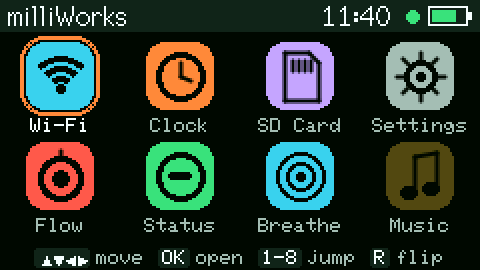
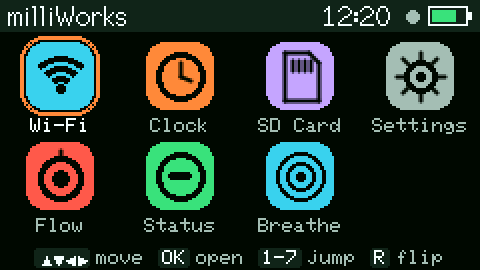
Breathe: Count On/Off for the voice instead of a separate guidance; hide Music for now

diff --git a/src/app_breathe.cpp b/src/app_breathe.cpp
@@ -65,11 +65,11 @@ static void musicCue(const Pattern& p, int idx, bool bells) {
 }
 
 // ---- Guidance: how you know the phase with your eyes closed ----------------------------
-// Saved by number (br_gd), so new choices go at the end; ORDER is how they appear.
-enum Guidance { G_VOICE, G_TONES, G_SILENT, G_VCOUNT, G_COUNT };
-static const char* GUIDANCE_NAME[G_COUNT] = {"Voice", "Tones", "Silent", "Count"};
-static const Guidance ORDER[G_COUNT] = {G_VCOUNT, G_VOICE, G_TONES, G_SILENT};
-static bool usesVoice(int g) { return g == G_VOICE || g == G_VCOUNT; }
+// Saved by number (br_gd). Whether the voice also counts is its own setting (br_cnt).
+// v19-beta.1/.2 saved 3 for "Count": that is now Voice with counting on.
+enum Guidance { G_VOICE, G_TONES, G_SILENT, G_COUNT };
+static const char* GUIDANCE_NAME[G_COUNT] = {"Voice", "Tones", "Silent"};
+static bool usesVoice(int g) { return g == G_VOICE; }
 static uint32_t duckUntil = 0;
 
 // A calm voice says "Breathe in" / "Hold" / "Breathe out" on its own speaker channel (2),
@@ -96,14 +96,14 @@ static void cue(Guidance g, const Pattern& p, int idx, bool music) {
     else if (g == G_TONES) playBreathCue(idx == 0 ? 0 : idx == 2 ? 2 : 1);
 }
 
-static void session(const Pattern& p, int minutes, bool music, Guidance guide) {
+static void session(const Pattern& p, int minutes, bool music, Guidance guide, bool count) {
     uint32_t start = millis(), total = minutes * 60000UL;
     int lastPhase = -1;
     // Count: "In" is the first second, then "two", "three"... one per second
     // to the end of the phase, so the count always matches the pattern (4-7-8 counts to 8).
     uint32_t phaseStart = 0;
     int nextNum = 0;
-    bool counting = guide == G_VCOUNT;
+    bool counting = usesVoice(guide) && count;
     if (music) { focusSoundStart(FS_BREATH); focusBreathSet(196.0f, 0.06f, 0.5f); }
     // The word the voice says, and the same number the voice counts (1 = the word itself).
     static const char* WORD[] = {"In", "Hold", "Out", "Hold"};
@@ -176,25 +176,30 @@ void appBreathe() {
     int pat = constrain(pr.getInt("br_pat", 0), 0, PATTERN_COUNT - 1);
     int len = constrain(pr.getInt("br_len", 1), 0, 3);
     bool music = pr.getBool("br_mus", true);
-    int guide = constrain(pr.getInt("br_gd", G_VCOUNT), 0, G_COUNT - 1);
+    int guide = pr.getInt("br_gd", G_VOICE);
+    bool count = pr.getBool("br_cnt", true);           // the voice counts 2, 3, 4... (default on)
     pr.end();
+    if (guide < 0 || guide >= G_COUNT) guide = G_VOICE; // 3 = the beta's "Count": Voice, counting
+    const int ROWS = 5;
     int sel = 0;
     while (true) {
         M5Cardputer.update();
         Input in = readInput();
         if (in.back) { voiceUnload(); toldBuiltin = false; return; }
-        if (in.up) sel = (sel + 3) % 4;
-        if (in.down) sel = (sel + 1) % 4;
+        if (in.up) sel = (sel + ROWS - 1) % ROWS;
+        if (in.down) sel = (sel + 1) % ROWS;
         if (in.left || in.right) {
             int step = in.right ? 1 : -1;
             if (sel == 0) pat = (pat + step + PATTERN_COUNT) % PATTERN_COUNT;
             else if (sel == 1) len = (len + step + 4) % 4;
             else if (sel == 2) {                        // hear the choice straight away
-                int at = 0;
-                while (ORDER[at] != guide) at++;
-                guide = ORDER[(at + step + G_COUNT) % G_COUNT];
+                guide = (guide + step + G_COUNT) % G_COUNT;
                 if (usesVoice(guide)) { if (ensureVoice()) speak(0, false); }
                 else if (guide == G_TONES) playBreathCue(0);
+            }
+            else if (sel == 3) {                        // hear it: "two"
+                count = !count;
+                if (count && usesVoice(guide) && ensureVoice()) voiceCount(2);
             }
             else music = !music;
         }
@@ -204,34 +209,42 @@ void appBreathe() {
             pr.putInt("br_len", len);
             pr.putBool("br_mus", music);
             pr.putInt("br_gd", guide);
+            pr.putBool("br_cnt", count);
             pr.end();
             Guidance g = (Guidance)guide;
             if (usesVoice(g)) ensureVoice();
-            session(PATTERNS[pat], MINUTES[len], music, g);
+            session(PATTERNS[pat], MINUTES[len], music, g, count);
             continue;
         }
         drawHeader("Breathe");
         // A still preview of the circle on the left, settings on the right.
         drawBreathCircle(46, 58, 10, 32, 0.6f, col::trace);
-        const char* labels[] = {"Pattern", "Length", "Guidance", "Music"};
-        String values[] = {PATTERNS[pat].name, String(MINUTES[len]) + " min", GUIDANCE_NAME[guide], music ? "On" : "Off"};
-        for (int i = 0; i < 4; i++) {
-            int y = 21 + i * 19;
-            if (i == sel) canvas.fillRoundRect(94, y, 142, 17, 4, col::accent);
+        const char* labels[ROWS] = {"Pattern", "Length", "Guidance", "Count", "Music"};
+        String values[ROWS] = {PATTERNS[pat].name, String(MINUTES[len]) + " min", GUIDANCE_NAME[guide],
+                               count ? "On" : "Off", music ? "On" : "Off"};
+        for (int i = 0; i < ROWS; i++) {
+            int y = 19 + i * 17;
+            bool idle = i == 3 && !usesVoice(guide);    // Count only matters with the voice
+            if (i == sel) canvas.fillRoundRect(94, y, 142, 16, 4, col::accent);
             canvas.setFont(&fonts::Font2);
             canvas.setTextDatum(middle_left);
             canvas.setTextColor(i == sel ? col::onAccent : col::dim);
-            canvas.drawString(labels[i], 100, y + 9);
+            canvas.drawString(labels[i], 100, y + 8);
             canvas.setTextDatum(middle_right);
-            canvas.setTextColor(i == sel ? col::onAccent : col::text);
-            canvas.drawString(values[i], 230, y + 9);
+            canvas.setTextColor(i == sel ? col::onAccent : idle ? col::dim : col::text);
+            canvas.drawString(values[i], 230, y + 8);
         }
         canvas.setFont(&fonts::Font0);
         canvas.setTextDatum(middle_left);
         canvas.setTextColor(col::dim);
         // Below the circle the line has the whole screen width (228 px = 38 small characters).
-        drawTextFit(sel == 2 ? String(guide == G_VCOUNT ? "Voice says in, hold, out and counts" : guide == G_VOICE ? "Voice says: in, hold, out" : guide == G_TONES ? "Tones: up=in, 2 taps=hold, down=out" : "Silent: no cues (bells if music on)")
-                             : String(PATTERNS[pat].name) + ": " + PATTERNS[pat].about, 6, 110, SCREEN_W - 12, &fonts::Font0);
+        String about;
+        if (sel == 2) about = guide == G_VOICE ? (count ? "Voice: in, 2, 3, 4 - hold, 2... - out" : "Voice says: in, hold, out")
+                            : guide == G_TONES ? "Tones: up=in, 2 taps=hold, down=out" : "Silent: no cues (bells if music on)";
+        else if (sel == 3) about = !usesVoice(guide) ? "Counting needs Guidance: Voice"
+                                   : count ? "The voice counts every second" : "The voice says only in, hold, out";
+        else about = String(PATTERNS[pat].name) + ": " + PATTERNS[pat].about;
+        drawTextFit(about, 6, 110, SCREEN_W - 12, &fonts::Font0);
         drawHints({{"OK", "start"}, {ARROWS_LR, "change"}, {ARROWS_UD, "move"}, {"ESC", "home"}});
         pushScreen();
         delay(15);

diff --git a/src/main.cpp b/src/main.cpp
@@ -29,7 +29,7 @@ static const App APPS[] = {
     {"Flow",     &col::bad,    G_FOCUS,   appFlow},
     {"Status",   &col::good,   G_STATUS,  appStatus},
     {"Breathe",  &col::trace,  G_BREATHE, appBreathe},
-    {"Music",    &col::warn,   G_MUSIC,   nullptr},
+    // {"Music",    &col::warn,   G_MUSIC,   nullptr},   // hidden until the Music app is ready
 };
 static const int APP_COUNT = sizeof(APPS) / sizeof(APPS[0]);
 static const int COLS = 4;
@@ -147,7 +147,7 @@ static void drawHome() {
         canvas.setTextColor(sel ? col::text : col::dim);
         canvas.drawString(a.name, cx, y + S + 8);
     }
-    drawHints({{ARROWS_UD ARROWS_LR, "move"}, {"OK", "open"}, {"1-8", "jump"}, {"R", "flip"}});
+    drawHints({{ARROWS_UD ARROWS_LR, "move"}, {"OK", "open"}, {"1-7", "jump"}, {"R", "flip"}});
     pushScreen();
 }
 

diff --git a/src/settings_sd.cpp b/src/settings_sd.cpp
@@ -32,7 +32,7 @@ static const Key KEYS[] = {
     {"snd_on", K_BOOL}, {"snd_vol", K_INT},
     {"tz", K_INT}, {"h24", K_BOOL},
     {"fl_int", K_STR}, {"fl_len", K_INT}, {"fl_snd", K_INT}, {"fl_brk", K_INT},
-    {"br_pat", K_INT}, {"br_len", K_INT}, {"br_gd", K_INT}, {"br_mus", K_BOOL}, {"voice", K_STR},
+    {"br_pat", K_INT}, {"br_len", K_INT}, {"br_gd", K_INT}, {"br_cnt", K_BOOL}, {"br_mus", K_BOOL}, {"voice", K_STR},
     {"s0", K_STR}, {"s1", K_STR}, {"s2", K_STR}, {"s3", K_STR}, {"s4", K_STR},
 };
 

diff --git a/README.md b/README.md
@@ -8,7 +8,7 @@ without waiting for the internet, a focus timer with calming sounds, a status li
 
 <p align="center"><img src="docs/screenshots/home.png" width="480" alt="milliWorks home screen: eight app icons"></p>
 
-The home screen: pick an app with the arrow keys, or press its number (1–8).
+The home screen: pick an app with the arrow keys, or press its number (1–7).
 
 ## The apps
 
@@ -41,9 +41,9 @@ the RGB LED.</td>
 <tr>
 <td><img src="docs/screenshots/breathe.png" alt="Breathe app settings"></td>
 <td><b>Breathe</b><br>Guided breathing with four patterns: Calm (4-4-6), Box (4-4-4-4), 4-7-8 and
-Even (5-5). Choose the length, calm background music, and how you're guided: <b>Count</b>
-(a voice says <i>In / Hold / Out</i> and counts each second), Voice, Tones, or Silent. Made
-for eyes-closed use.</td>
+Even (5-5). Choose the length, calm background music, and how you're guided: <b>Voice</b> (says
+<i>In / Hold / Out</i>, and with <b>Count</b> on it counts each second: <i>In, two, three,
+four</i>), Tones, or Silent. Made for eyes-closed use.</td>
 </tr>
 <tr>
 <td><img src="docs/screenshots/breathe-session.png" alt="Breathe session"></td>
@@ -95,7 +95,7 @@ the next version early. See [RELEASING.md](RELEASING.md) and [CHANGELOG.md](CHAN
 1. Download `milliWorks-sd-card.zip` from the same release and unzip it.
 2. Copy the `milliWorks` folder to the top level of the SD card. It holds `milliWorks/breathe/voices/luna` and `julian`.
    - If milliWorks has already started with the card inserted, the folders are already there. Copy the `luna` and `julian` folders into `milliWorks/breathe/voices/`.
-3. On the Cardputer: **Settings → Breathe voice**, then pick **luna** (female) or **julian** (male).
+3. On the Cardputer, Breathe uses **luna** (female) straight away. Switch to **julian** (male) in **Settings → Breathe voice**.
 
 There's also a small voice built into the firmware, so Breathe works without the card. It
 doesn't count, though.

diff --git a/RELEASING.md b/RELEASING.md
@@ -54,11 +54,11 @@ gives `v19-beta.2`).
 - [ ] The Clock shows a time straight away, then the right time once Wi-Fi connects.
 
 **Apps**
-- [ ] Home: arrows, OK, number keys 1–8 and Back all work.
+- [ ] Home: arrows, OK, number keys 1–7 and Back all work.
 - [ ] Wi-Fi: connected network, IP and signal fit on one line; scan and join work.
 - [ ] Flow: a short session starts, the sound plays and mutes (M), parking a thought saves to `/milliWorks/flow/parked.txt`.
 - [ ] Status: each status changes the LED colour.
-- [ ] Breathe (Guidance **Count**, voice luna, then julian): *In, two, three, four* is in time with the screen's numbers for Calm, Box and 4-7-8. Music dips while the voice speaks.
+- [ ] Breathe (Guidance **Voice**, Count **On**, voice luna, then julian): *In, two, three, four* is in time with the screen's numbers for Calm, Box and 4-7-8. Music dips while the voice speaks.
 - [ ] Breathe with the SD card out: the built-in voice says *In / Hold / Out* and nothing crashes.
 - [ ] Settings: change the theme (sounds change too), save to SD, load from SD.
 - [ ] Anything that changed in this version (see CHANGELOG).

diff --git a/CHANGELOG.md b/CHANGELOG.md
@@ -6,6 +6,8 @@ when the release becomes stable.
 
 ## Unreleased
 
+- Breathe: counting is now an **On/Off** setting for the voice (Guidance: Voice, then Count: On or Off) instead of a separate "Count" guidance. If you chose Count in an earlier test build, you get Voice with Count On.
+- Home: the Music app is hidden until it's ready.
 - Breathe: uses the voice on your SD card straight away. Before, it looked for an old voice (Samantha) until you picked one in Settings, and quietly played the small built-in voice without counting. Now it uses **luna** if it's on the card, or else the first voice it finds.
 - Breathe and Settings say so on screen if a voice on the card can't be read, instead of switching to the built-in voice without telling you.
 - Release path: test builds (pre-releases such as `v19-beta.1`) come before each stable release. See [RELEASING.md](RELEASING.md).
